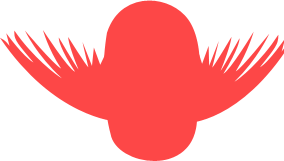
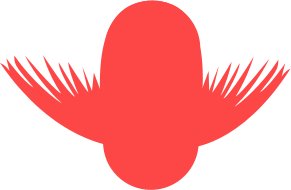
Better Fishes, still need to fix avoid

diff --git a/BoidTest/Boid.cs b/BoidTest/Boid.cs
@@ -23,6 +23,7 @@ namespace BoidTest
         Vector2 pos;
         Vector2 dir;
         Vector2[] dirArr;
+        float[] distanceArr;
 
         Vector2 windowSize;
         Color color;
@@ -57,7 +58,18 @@ namespace BoidTest
                 content.Load<Texture2D>("Fish\\b4"),
                 content.Load<Texture2D>("Fish\\tail"),
             };
-                
+
+            distanceArr = new float[6]
+            {
+                20,
+                14,
+                11,
+                20,
+                26,
+                20
+            };
+
+
         }
 
         public void Update(Boid[] boids, List<Feed> feeds, List<Obst> obst,GameTime gameTime,bool loopAround,float keepDistance,float viewDistance)
@@ -68,7 +80,10 @@ namespace BoidTest
             if (Keyboard.GetState().IsKeyDown(Keys.T))
                 roationInc += 0.1f;
 
-            this.FollowingFeed(feeds, 1000);
+            keepDistance = ((fishTex[0].Width * size) / 16) * keepDistance;
+            viewDistance = ((fishTex[0].Width * size) / 16) * viewDistance;
+
+           // this.FollowingFeed(feeds, 1000);
 
             this.BoidsFirstRules(boids, false, keepDistance, viewDistance);
 
@@ -99,7 +114,7 @@ namespace BoidTest
             Vector2 rotToFront = new Vector2();
             int countDown = 0;
             Vector2 lastPos = pos;
-            float distance = 22;
+            float distance = 0;
             for (int n = 0; n < fishTex.Length; n++)
             {
                 rotToFront = dirArr[countDown];
@@ -108,28 +123,19 @@ namespace BoidTest
                 rotation = (float)(Math.Atan2(rotToFront.Y, rotToFront.X));// / (2 * Math.PI));
 
                 rotation += MathHelper.ToRadians(-90);
-                
-                spriteBatch.Draw(fishTex[n], lastPos - (dirArr[countDown] * distance), new Rectangle(0, 0, fishTex[n].Width, fishTex[n].Height), new Color(color.R + (n * 2), color.G + (n * 2), color.B + (n * 2)),
+                spriteBatch.Draw(fishTex[n], lastPos, new Rectangle(0, 0, fishTex[n].Width, fishTex[n].Height), new Color(color.R + (n * 2), color.G + (n * 2), color.B + (n * 2)),
                     rotation,
                     new Vector2(fishTex[n].Width / 2, (fishTex[n].Height)),
                     size,
                     SpriteEffects.None, 1
                     );
-                lastPos = lastPos - (dirArr[countDown] * distance);
-                countDown += 3;
-                distance -= 2;
-            }
-            //// rotToFront = pos[0] - pos[10];
-            //rotToFront = dir;
-            //rotation = (float)(Math.Atan2(rotToFront.Y, rotToFront.X));// / (2 * Math.PI));
-            //rotation += MathHelper.ToRadians(-90);
 
-            //spriteBatch.Draw(fishTex[0], pos, new Rectangle(0, 0, fishTex[0].Width, fishTex[0].Height), new Color(color.R + (0 * 2), color.G + (0 * 2), color.B + (0 * 2)),
-            //        rotation,
-            //        new Vector2(fishTex[0].Width / 2, (fishTex[0].Height)),
-            //        size,
-            //        SpriteEffects.None, 1
-            //        );
+
+
+                    lastPos = lastPos - (dirArr[countDown] * distanceArr[n]);
+                    countDown += 4;
+                    
+            }
         }
 
         private void BoidsFirstRules(Boid[] boids,bool loopAround,float keepDistance,float visibalDistance)
